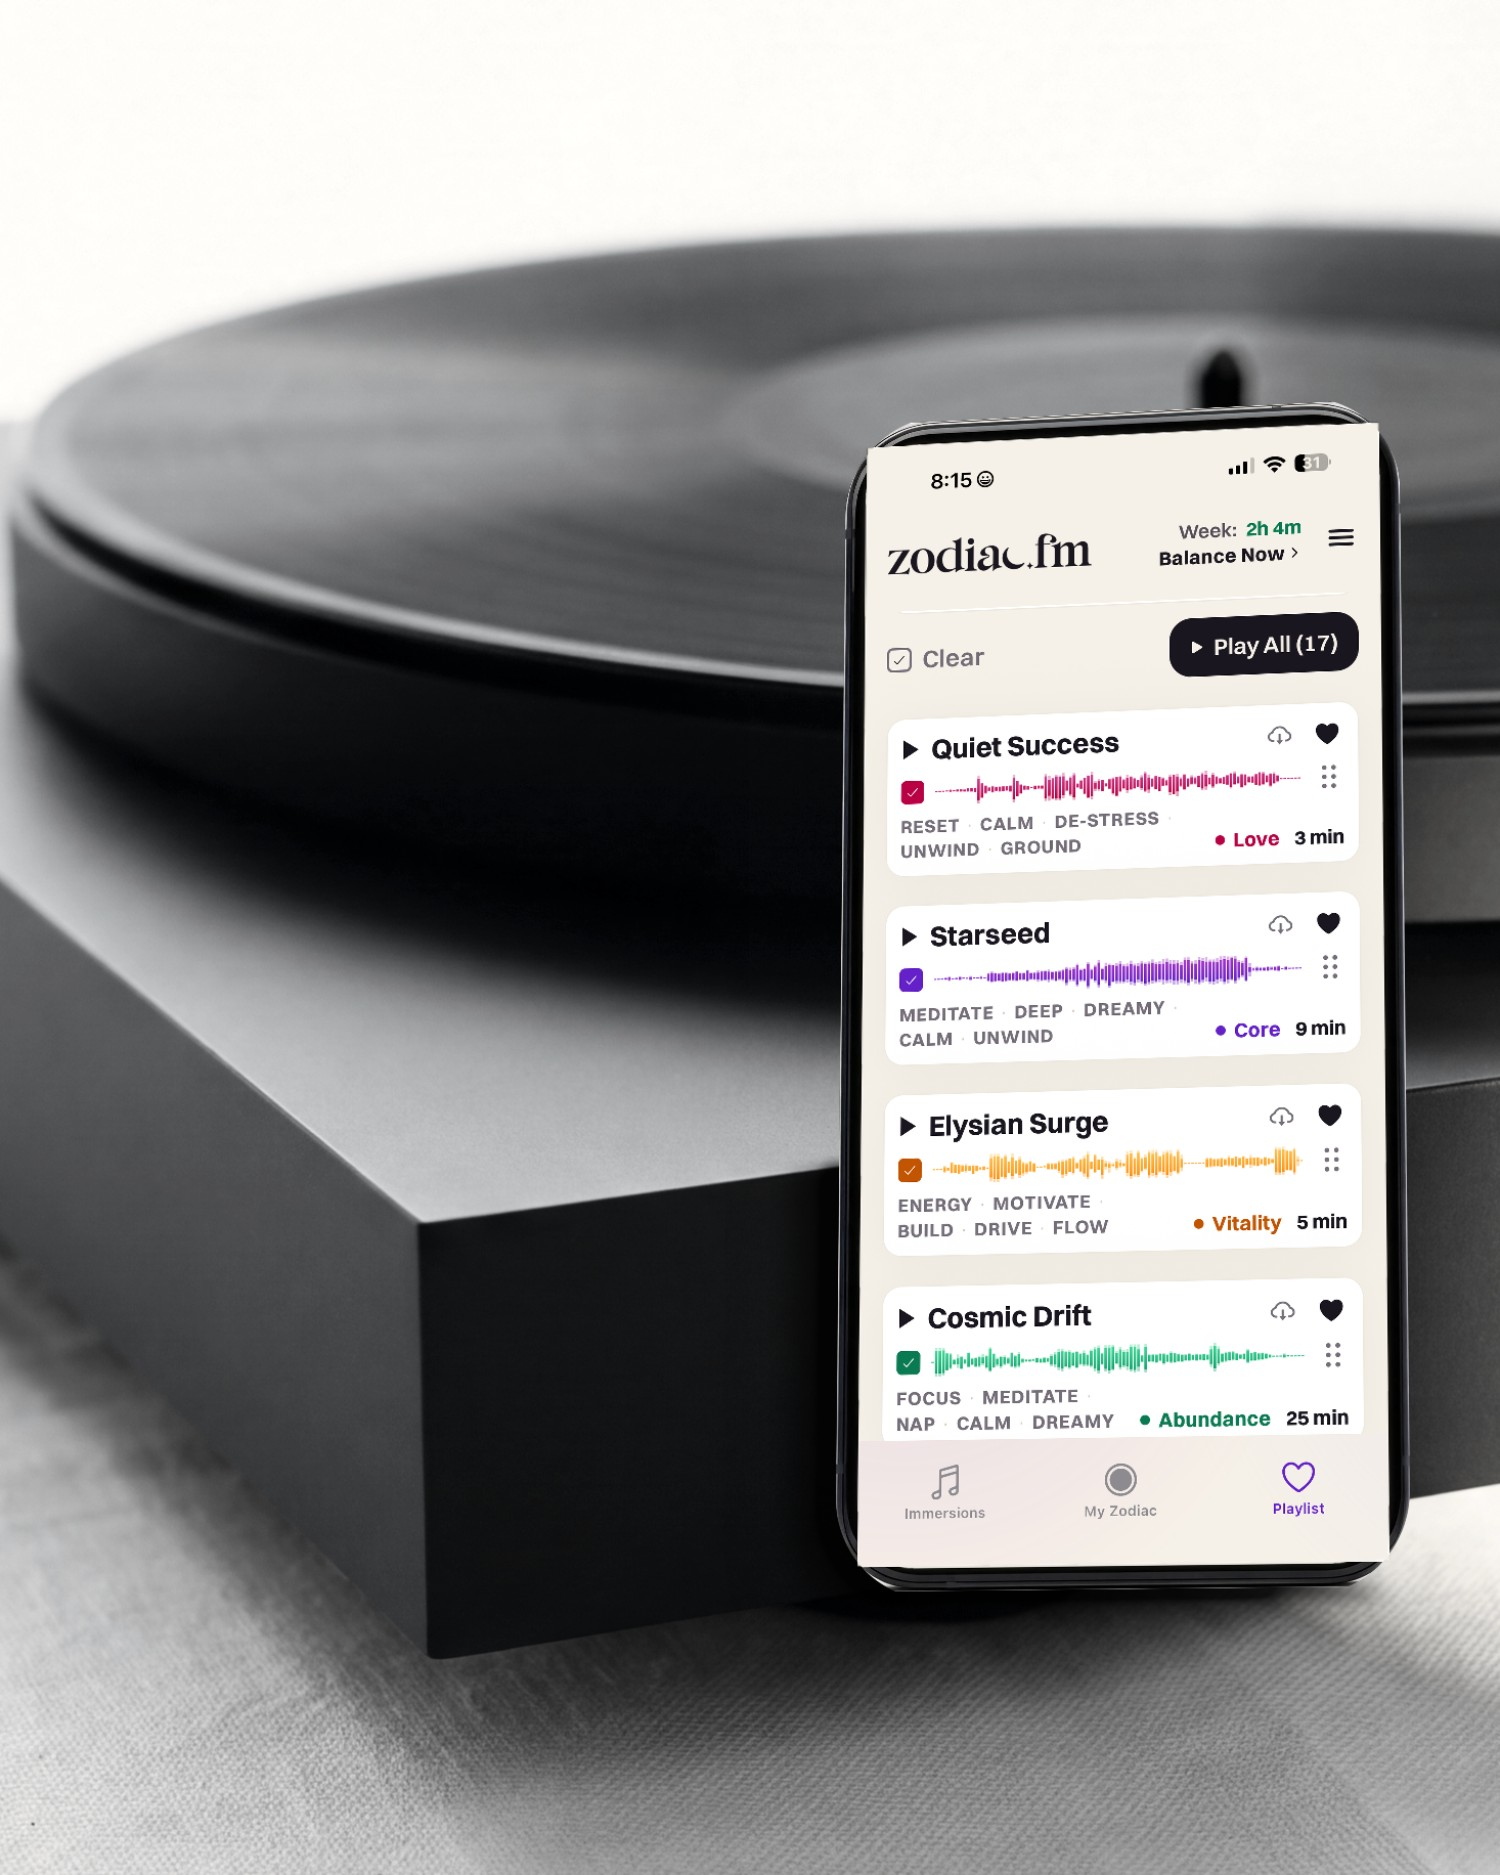
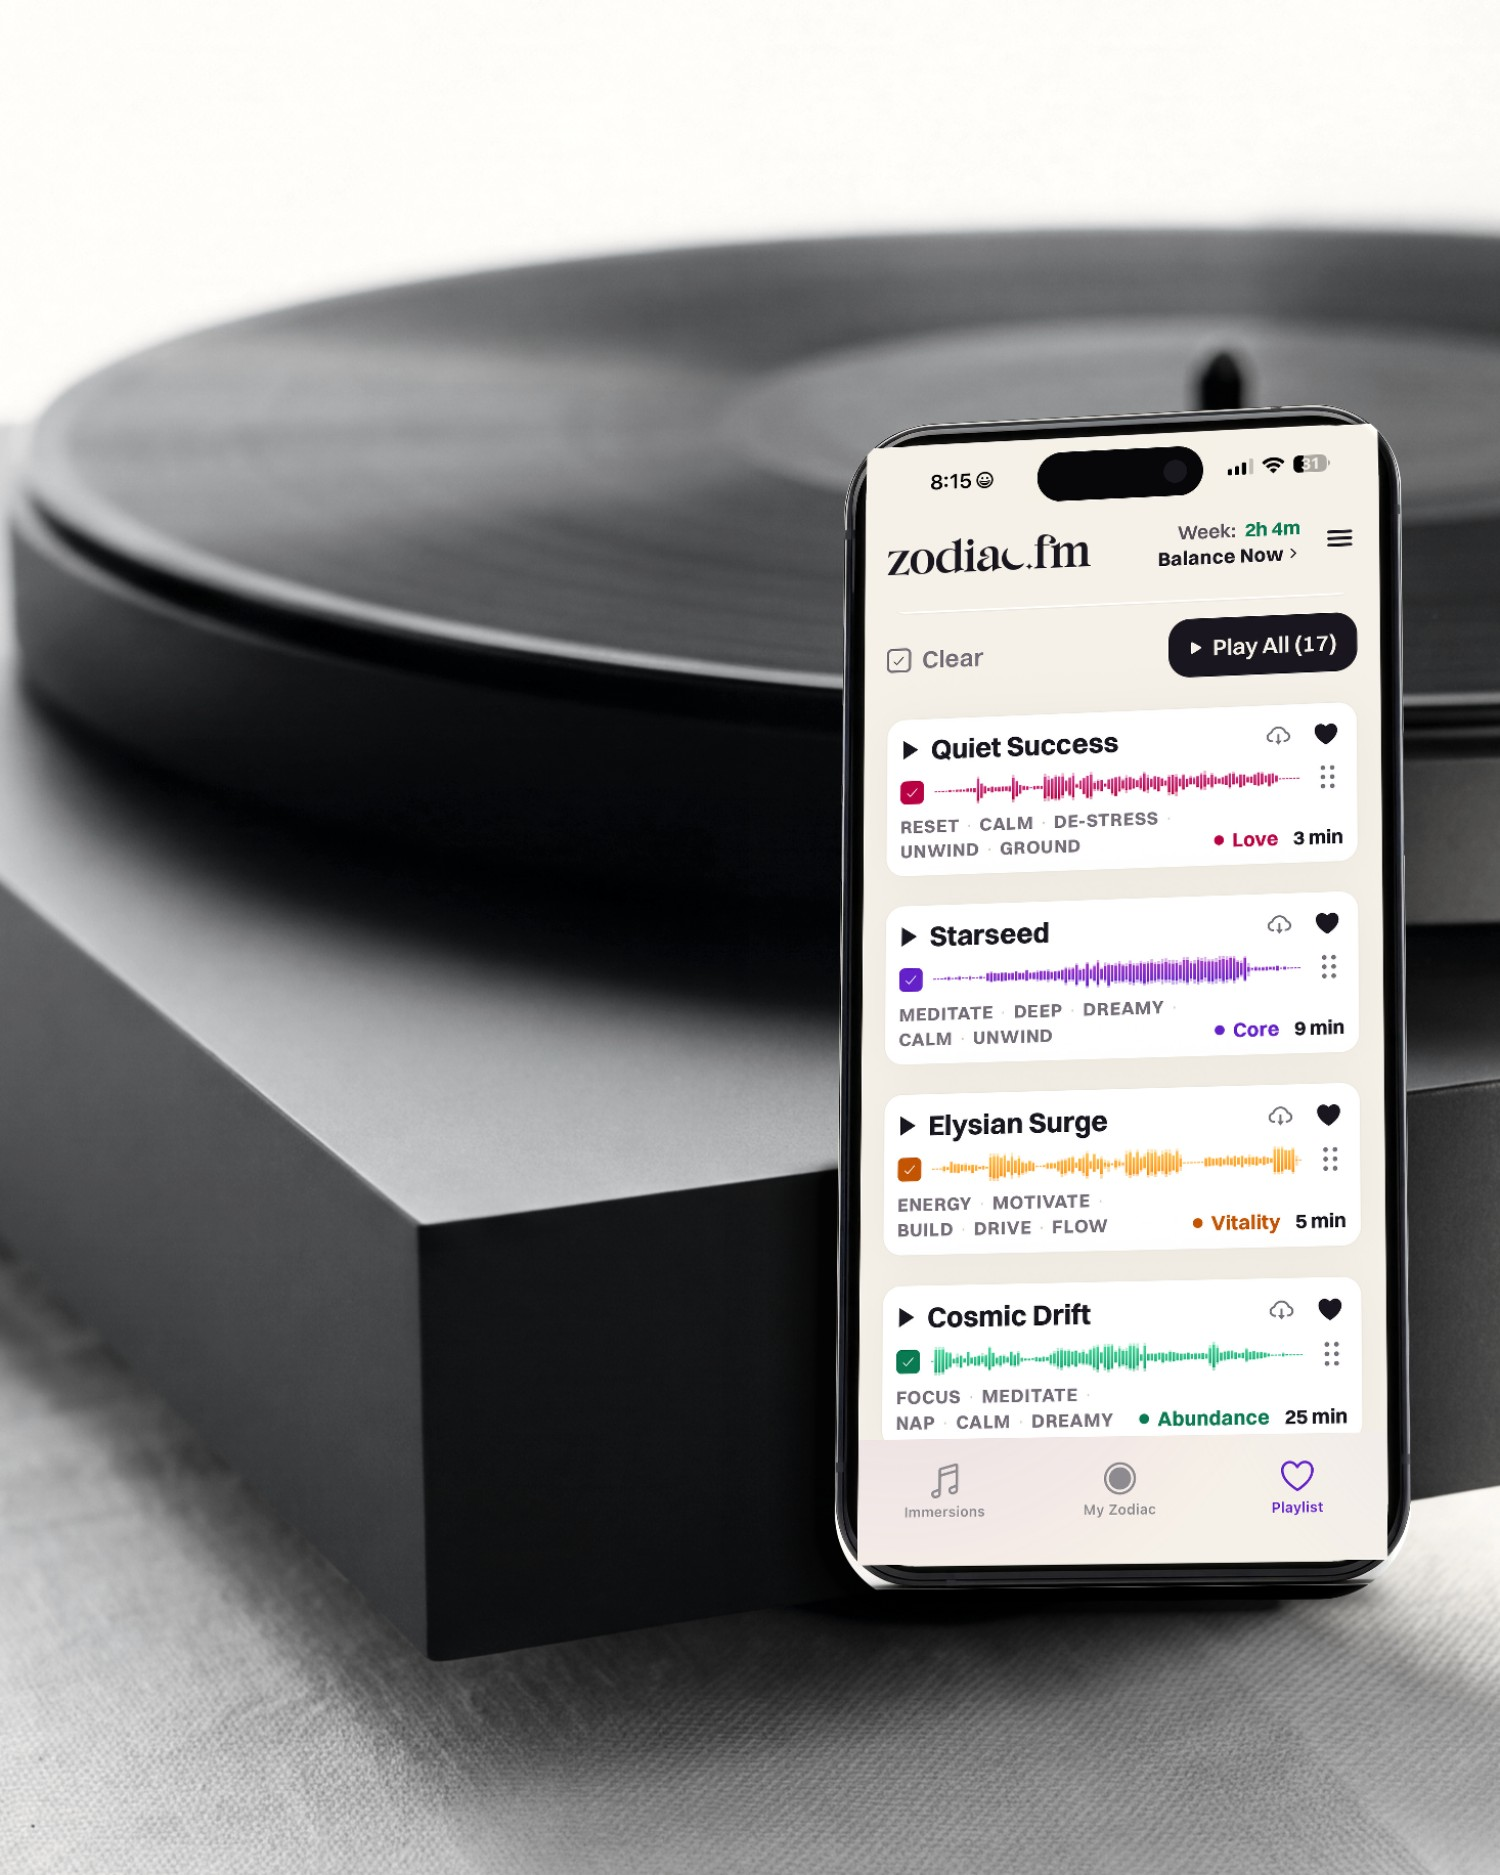
P-207: corners repaired - whole P-178 plate as one layer, no screen paste
Michael 2026-09-06: "the corners are over the phone, this is horrible." (fd-072)
The first cut re-pasted the square 1125x2436 screenshot over the whole device
rect, so its corners ran past the rounded bezel and covered the island. The
frame now warps the accepted P-178 plate as ONE layer, body and screen
together, with the alpha fitted to the plate's real silhouette (corner radius
195.7 px at 1251 wide); 0 pixels outside the phone touched at any corner;
verified against P-178, MAD 2.96/255. Same number, same page, same geometry.

diff --git a/site/styleguide-library.html b/site/styleguide-library.html
@@ -726,7 +726,7 @@
     </figure>
     <figure class="photo" id="p-207">
       <img loading="lazy" src="/site/assets/home-t11/phone-playlist-real-screen-01.jpg" alt="A real iPhone leaning against the slim plinth of a black turntable on white linen in high daylight, its screen the live zodiac.fm Playlist of 2026-09-03 with four waveforms in rose, violet, amber and green">
-      <figcaption><b class="pid">P-207</b><span class="ttl">Phone Playlist &middot; Real Screen 01</span><span class="recipe"><i>RECIPE</i> the photographed P-178 body carrying iPhone &middot; Real Screen 01 re-pasted byte-true (screen aspect 0.462, MAD 2.9/255 against the source), leaning 10&deg; on a slim plinth with two contacts and two shadows, on a nano-pro plate neutralised to CHIP law (chroma outside the screen 1.35); record diameter two phone heights; linen L 93. The mobile plate <span class="num">1500&times;1875</span> is the same frame cropped to the phone. Replaces P-184 (retired 2026-09-06, fd-070: P-160&#x27;s cut scene with a warped screenshot on a painted phone). Built by the P-177 method; no model drew the phone or the screen.</span></figcaption>
+      <figcaption><b class="pid">P-207</b><span class="ttl">Phone Playlist &middot; Real Screen 01</span><span class="recipe"><i>RECIPE</i> the photographed P-178 body carrying iPhone &middot; Real Screen 01 re-pasted byte-true (screen aspect 0.462, MAD 2.9/255 against the source), leaning 10&deg; on a slim plinth with two contacts and two shadows, on a nano-pro plate neutralised to CHIP law (chroma outside the screen 1.35); record diameter two phone heights; linen L 93. The mobile plate <span class="num">1500&times;1875</span> is the same frame cropped to the phone. Replaces P-184 (retired 2026-09-06, fd-070: P-160&#x27;s cut scene with a warped screenshot on a painted phone). Built by the P-177 method; no model drew the phone or the screen. CORRECTED 2026-09-06 (fd-072, Michael: &ldquo;the corners are over the phone&rdquo;): the first cut re-pasted a square screenshot over the whole device and its corners ran past the bezel; the frame now carries the whole P-178 plate as one layer, alpha fitted to the plate&#x27;s real silhouette (corner radius 196 px at 1251 wide), verified against P-178 (MAD 3.0/255).</span></figcaption>
     </figure>
     <figure class="photo" id="chip-kickers">
       <img loading="lazy" src="/site/Iris/assets/examples/chip-kickers.jpg" alt="Three testimonial kickers — Coming Home, Flow, Opportunity — each with a small band-coloured waveform chip beside it in rose, amber and emerald">
